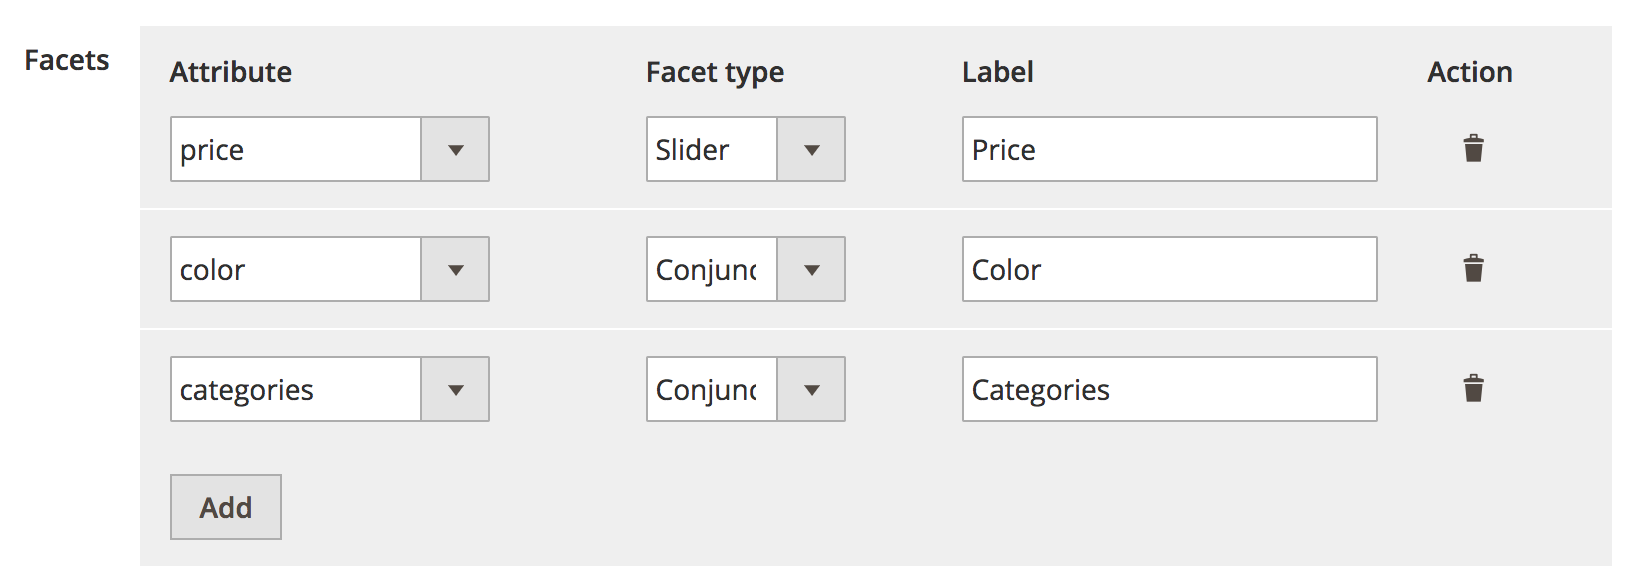
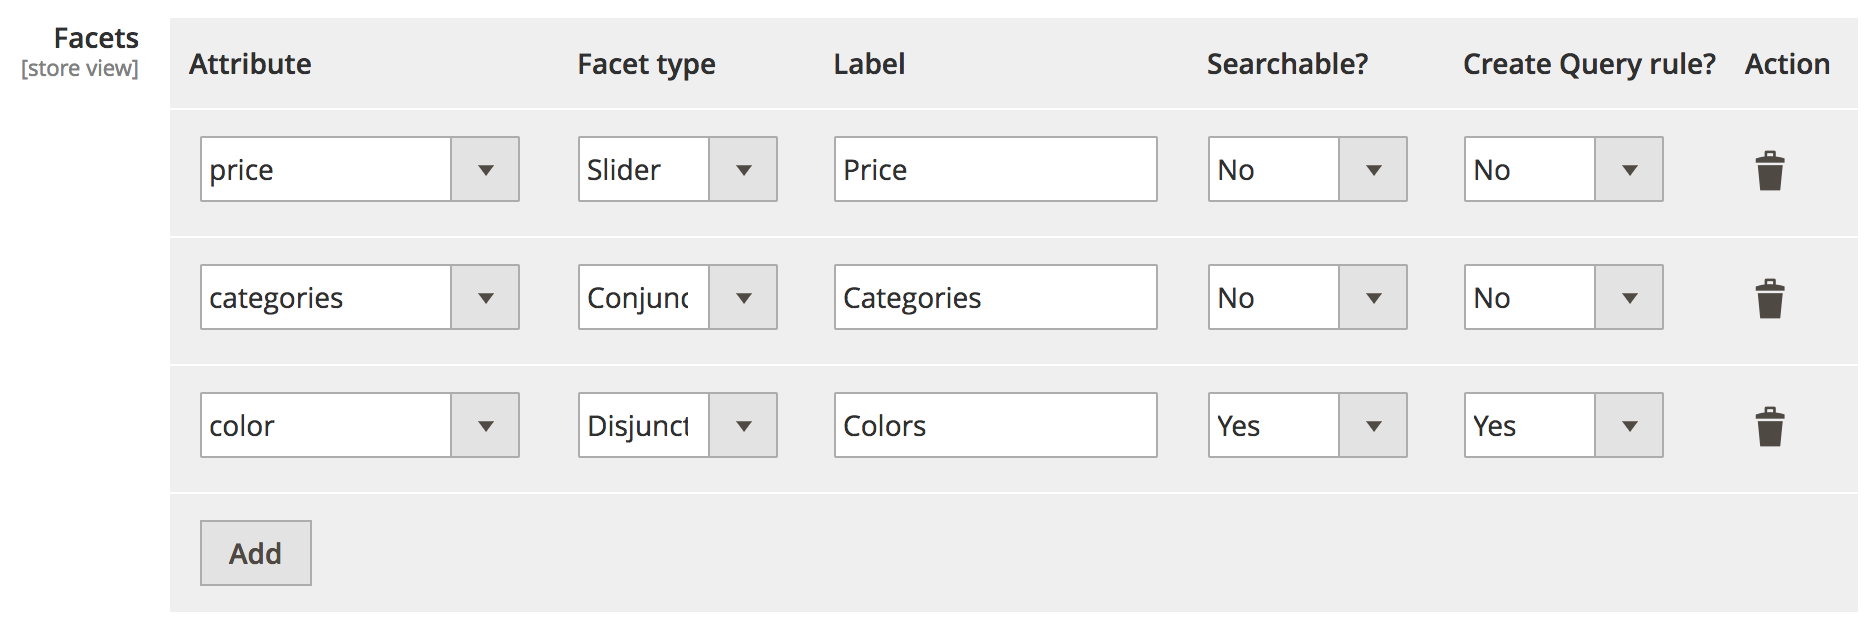
Mention query rules in docs

diff --git a/_src/m2-indexing.md b/_src/m2-indexing.md
@@ -115,6 +115,10 @@ Facets are the attributes you want to use as filters on an instant search result
 
 For each facet you should specify the attribute, the label (what is displayed above the filter) and the type of the facet. Prices and numeric filters will be shown as a slider. Other filters will be shown as a list of checkboxes.
 
+Another option is to set facet as searchable. This option will add a search box on top of a filter box and allow a customer to search for facet values. It's very handy when a facet has a lot of values. 
+
+The last option is to create a [query rule](https://www.algolia.com/doc/guides/query-rules/query-rules-overview/) for the facet. Set this option to "Yes" when you want Algolia to [dynamically filter on a facet](https://www.algolia.com/doc/tutorials/query-rules/query-rules-how-to-add-filters-dynamically/) when a user searches for its value in query. It means when you create a Query rule for "color" facet and user is searching for query "red shorts", Algolia will internally filter results for color "red" and search only for query "shorts". It leads to more relevant results. This query rule is applied for both autocomplete and instant search results. Query rules have [a limited quota for an Algolia plan](https://www.algolia.com/pricing), check it carefully before you use it.  
+
 The attributes specified as facets are automatically indexed as retrievable but not searchable. There is no need to specify them in the searchable attributes table. They will automatically be configured in Algolia as attributes for faceting.
 
 There are 3 facets by default - **price**, **categories** and **color**.

diff --git a/_src/faq.md b/_src/faq.md
@@ -213,3 +213,11 @@ Don't forget to reindex your data after you save the configuration.
 This happens when you have set configuration of **Use Web Server Rewrites** set to **No** and you reindex through console. To fix it, change the **Use Web Server Rewrites** to **Yes**.
 
 You can find the configuration in **System > Configuration > General > Web > Search Engine Optimalization**.
+
+## When I save Algolia's configuration or want to reindex products I see error "Rules quota exceeded. Please contact us if you need an extended quota.". What it means? 
+
+Depending on your [Algolia plan](https://www.algolia.com/pricing) your query rules quota might be limited to a certain number of query rules. 
+
+The extension creates query rules only when you explicitly configure it to. It can be done in [Facet's configuration](/magento/doc/m2/indexing/#facets). If you set to "create query rules" for more than 10 (or less if you defined any query rules before) facets, than it will give you this error message as Algolia forbids to create more rules than is the quota.
+
+Solution here is to lower a number of facets for which you want to create query rule in Algolia.
